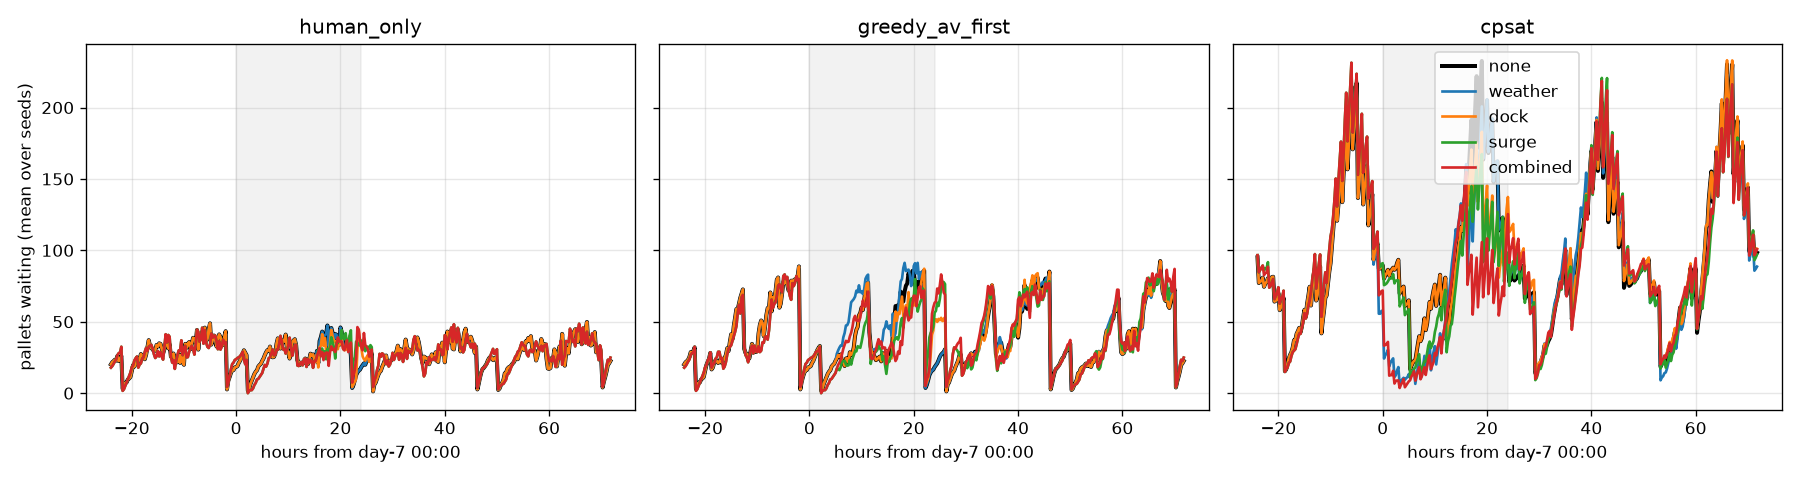
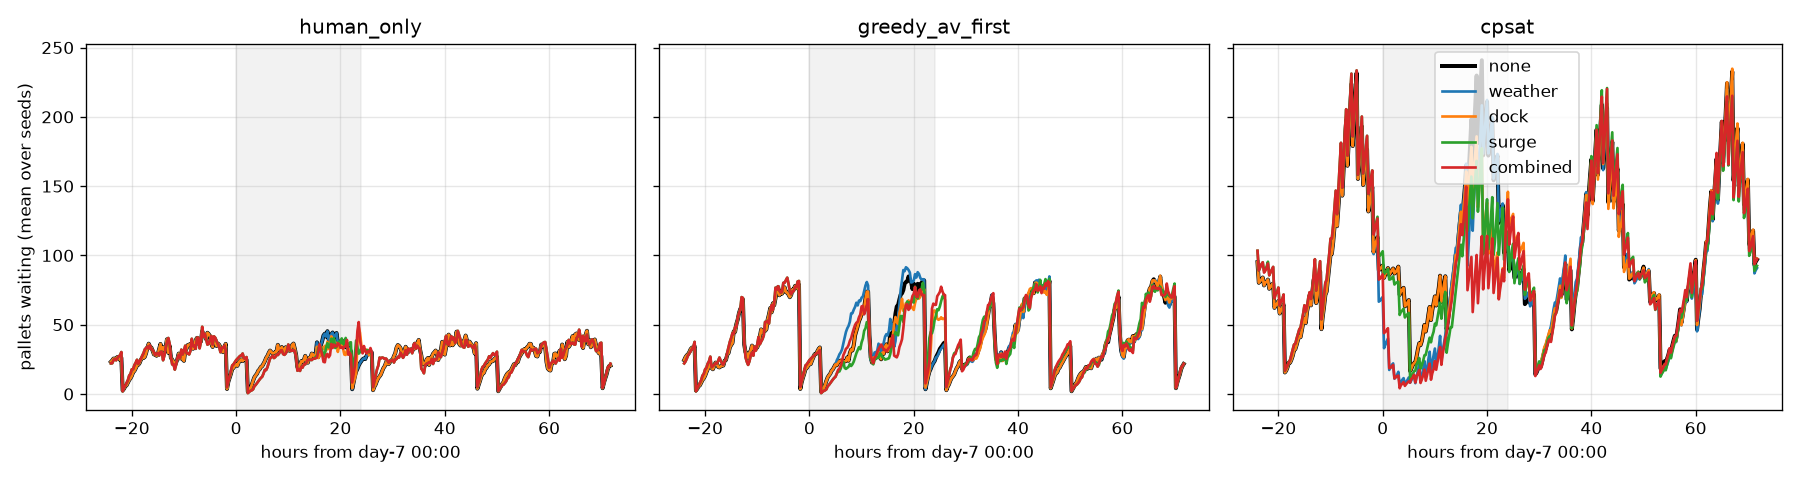
Disruption study at 20 seeds: tables, plot, README narrative

diff --git a/README.md b/README.md
@@ -167,38 +167,37 @@ What this means:
 
 All 5-seed estimates fall inside the corresponding final CI, and 10–13 seeds suffice for the running mean to settle within the 30-seed CI. Every estimate's sign agrees with its final value by n = 5. CP-SAT has only 10 seeds; its 5-seed values are within its own 10-seed CIs, but convergence beyond 10 is unverified.
 
-## Disruption case study (`experiments/disruptions.py`; balanced, 8 seeds, paired vs the same seed undisturbed)
+## Disruption case study (`experiments/disruptions.py`; balanced, 20 seeds, paired vs the same seed undisturbed)
 Day-7 events:
 - **weather:** AV hold 04:00–16:00;
 - **dock:** Dallas loses 4 of 6 doors 15:00–23:00;
 - **surge:** 50% of day-7 pickups slip 2–6 h;
 - **combined:** all three.
 
-Metrics cover freight created on days 7–8.
+Metrics cover freight created on days 7–8. Undisturbed window on-time: human_only 0.924, greedy 0.916, cpsat 0.900 (each ± 0.007).
 
 | Case | Policy | Window on-time | Δ vs undisturbed (pp) | Peak excess backlog (pallets) | Excess pallet-hours |
 |---|---|---|---|---|---|
-| weather | human_only | 0.930 | 0.00 (no AV) | 0 | 0 |
-| weather | greedy_av_first | 0.914 | −0.30 ± 0.65 | 53 ± 10 | 292 ± 63 |
-| weather | cpsat | 0.917 | +1.25 ± 0.89 | 38 ± 15 | 448 ± 186 |
-| dock | human_only | 0.930 | −0.03 ± 0.08 | 35 ± 7 | 55 ± 15 |
-| dock | greedy_av_first | 0.917 | −0.00 ± 0.27 | 50 ± 14 | 120 ± 45 |
-| dock | cpsat | 0.904 | −0.10 ± 0.29 | 44 ± 16 | 262 ± 190 |
-| surge | human_only | 0.900 | −3.02 ± 1.66 | 50 ± 3 | 602 ± 74 |
-| surge | greedy_av_first | 0.895 | −2.14 ± 1.74 | 68 ± 12 | 782 ± 190 |
-| surge | cpsat | 0.882 | −2.27 ± 2.33 | 87 ± 14 | 1109 ± 468 |
-| combined | human_only | 0.899 | −3.12 ± 1.65 | 52 ± 6 | 592 ± 70 |
-| combined | greedy_av_first | 0.890 | −2.66 ± 1.56 | 77 ± 13 | 876 ± 182 |
-| combined | cpsat | 0.884 | −2.02 ± 2.00 | 94 ± 12 | 1097 ± 395 |
+| weather | human_only | 0.924 | 0.00 (no AV) | 0 | 0 |
+| weather | greedy_av_first | 0.915 | −0.06 ± 0.35 | 50 ± 5 | 251 ± 40 |
+| weather | cpsat | 0.913 | +1.22 ± 0.41 | 35 ± 8 | 375 ± 103 |
+| dock | human_only | 0.924 | −0.02 ± 0.04 | 34 ± 3 | 54 ± 6 |
+| dock | greedy_av_first | 0.915 | −0.02 ± 0.10 | 49 ± 9 | 113 ± 30 |
+| dock | cpsat | 0.901 | +0.11 ± 0.24 | 46 ± 7 | 248 ± 94 |
+| surge | human_only | 0.908 | −1.63 ± 0.97 | 48 ± 2 | 597 ± 34 |
+| surge | greedy_av_first | 0.905 | −1.04 ± 0.90 | 69 ± 4 | 854 ± 83 |
+| surge | cpsat | 0.888 | −1.22 ± 1.06 | 86 ± 11 | 1170 ± 251 |
+| combined | human_only | 0.907 | −1.75 ± 1.00 | 51 ± 4 | 593 ± 33 |
+| combined | greedy_av_first | 0.898 | −1.74 ± 0.87 | 75 ± 5 | 926 ± 106 |
+| combined | cpsat | 0.893 | −0.77 ± 1.11 | 90 ± 11 | 1149 ± 244 |
 
 ![Backlog around the disruptions](results/disruption_backlog.png)
 
 Narrative:
 - **The plot shows each policy's operating style.** CP-SAT runs a large standing backlog every day (peaks of 150–230 pallets vs about 30–50 for human-only). This is the consolidation strategy that drives both its cost advantage and its extra dwell; disruptions are small on top of it.
-- **A 12 h AV weather hold barely hurts service under either AV policy.** Human trucks absorb the freight. Under CP-SAT, window on-time even rises (+1.25 ± 0.89 pp, a CI that only just excludes zero) because frozen AV slots force earlier human departures. The cost is a backlog that peaks at 40–50 pallets.
-- **A dock outage at the inbound peak is close to free for on-time** for every policy (|Δ| ≤ 0.1 pp), but it adds backlog.
-- **The late-pickup surge dominates.** It costs 2–3 pp on-time for every policy, and the CIs overlap, so no policy is clearly more resilient on service. CP-SAT carries the largest excess backlog (about 1,100 pallet-hours vs about 600 for human-only), because it was already holding freight to consolidate. A consolidation-heavy optimizer has less slack to absorb surges.
-- With 8 seeds, the disruption Δ CIs are wide (±1–2 pp). More seeds are on the to-do list.
+- **A 12 h AV weather hold doesn't hurt service.** Human trucks absorb the freight. Under CP-SAT, window on-time even rises, by +1.22 ± 0.41 pp. With 20 seeds the CI clearly excludes zero, where at 8 seeds it was borderline. The frozen AV slots force earlier human departures, i.e. the effect is CP-SAT's normal holding being suspended. The cost is a backlog that peaks at 35–50 pallets.
+- **A dock outage at the inbound peak is close to free for on-time** for every policy (|Δ| ≤ 0.11 pp), but it adds backlog: 2× human-only's pallet-hours for greedy, about 4.6× for CP-SAT.
+- **The late-pickup surge dominates**, at about 1–2 pp on-time for every policy. With 20 seeds the CIs are about ±1 pp and still overlap, so **no policy is clearly more resilient on service**. The 8-seed estimates (−2 to −3 pp) were biased toward larger losses by a few bad seeds. CP-SAT carries roughly twice human-only's excess backlog (about 1,150 vs 600 pallet-hours), because it was already holding freight to consolidate. A consolidation-heavy optimizer has less slack to absorb surges.
 
 ## Reproduce
 ```bash

diff --git a/results/summary.md b/results/summary.md
@@ -101,18 +101,18 @@ Paired difference vs greedy_av_first (imbalanced)
 
 | case | policy | seeds | window on-time | Δ vs undisturbed (pp) | peak excess backlog (pallets) | excess pallet-hours |
 |---|---|---|---|---|---|---|
-| none | human_only | 8 | 0.930 ± 0.006 | — | — | — |
-| none | greedy_av_first | 8 | 0.917 ± 0.009 | — | — | — |
-| none | cpsat | 8 | 0.905 ± 0.013 | — | — | — |
-| weather | human_only | 8 | 0.930 ± 0.006 | 0.00 ± 0.00 | 0 ± 0 | 0 ± 0 |
-| weather | greedy_av_first | 8 | 0.914 ± 0.010 | -0.30 ± 0.65 | 53 ± 10 | 292 ± 63 |
-| weather | cpsat | 8 | 0.917 ± 0.010 | 1.25 ± 0.89 | 38 ± 15 | 448 ± 186 |
-| dock | human_only | 8 | 0.930 ± 0.006 | -0.03 ± 0.08 | 35 ± 7 | 55 ± 15 |
-| dock | greedy_av_first | 8 | 0.917 ± 0.009 | -0.00 ± 0.27 | 50 ± 14 | 120 ± 45 |
-| dock | cpsat | 8 | 0.904 ± 0.013 | -0.10 ± 0.29 | 44 ± 16 | 262 ± 190 |
-| surge | human_only | 8 | 0.900 ± 0.013 | -3.02 ± 1.66 | 50 ± 3 | 602 ± 74 |
-| surge | greedy_av_first | 8 | 0.895 ± 0.014 | -2.14 ± 1.74 | 68 ± 12 | 782 ± 190 |
-| surge | cpsat | 8 | 0.882 ± 0.016 | -2.27 ± 2.33 | 87 ± 14 | 1109 ± 468 |
-| combined | human_only | 8 | 0.899 ± 0.013 | -3.12 ± 1.65 | 52 ± 6 | 592 ± 70 |
-| combined | greedy_av_first | 8 | 0.890 ± 0.011 | -2.66 ± 1.56 | 77 ± 13 | 876 ± 182 |
-| combined | cpsat | 8 | 0.884 ± 0.014 | -2.02 ± 2.00 | 94 ± 12 | 1097 ± 395 |
+| none | human_only | 20 | 0.924 ± 0.007 | — | — | — |
+| none | greedy_av_first | 20 | 0.916 ± 0.006 | — | — | — |
+| none | cpsat | 20 | 0.900 ± 0.007 | — | — | — |
+| weather | human_only | 20 | 0.924 ± 0.007 | 0.00 ± 0.00 | 0 ± 0 | 0 ± 0 |
+| weather | greedy_av_first | 20 | 0.915 ± 0.006 | -0.06 ± 0.35 | 50 ± 5 | 251 ± 40 |
+| weather | cpsat | 20 | 0.913 ± 0.007 | 1.22 ± 0.41 | 35 ± 8 | 375 ± 103 |
+| dock | human_only | 20 | 0.924 ± 0.007 | -0.02 ± 0.04 | 34 ± 3 | 54 ± 6 |
+| dock | greedy_av_first | 20 | 0.915 ± 0.006 | -0.02 ± 0.10 | 49 ± 9 | 113 ± 30 |
+| dock | cpsat | 20 | 0.901 ± 0.007 | 0.11 ± 0.24 | 46 ± 7 | 248 ± 94 |
+| surge | human_only | 20 | 0.908 ± 0.007 | -1.63 ± 0.97 | 48 ± 2 | 597 ± 34 |
+| surge | greedy_av_first | 20 | 0.905 ± 0.007 | -1.04 ± 0.90 | 69 ± 4 | 854 ± 83 |
+| surge | cpsat | 20 | 0.888 ± 0.007 | -1.22 ± 1.06 | 86 ± 11 | 1170 ± 251 |
+| combined | human_only | 20 | 0.907 ± 0.007 | -1.75 ± 1.00 | 51 ± 4 | 593 ± 33 |
+| combined | greedy_av_first | 20 | 0.898 ± 0.007 | -1.74 ± 0.87 | 75 ± 5 | 926 ± 106 |
+| combined | cpsat | 20 | 0.893 ± 0.008 | -0.77 ± 1.11 | 90 ± 11 | 1149 ± 244 |
